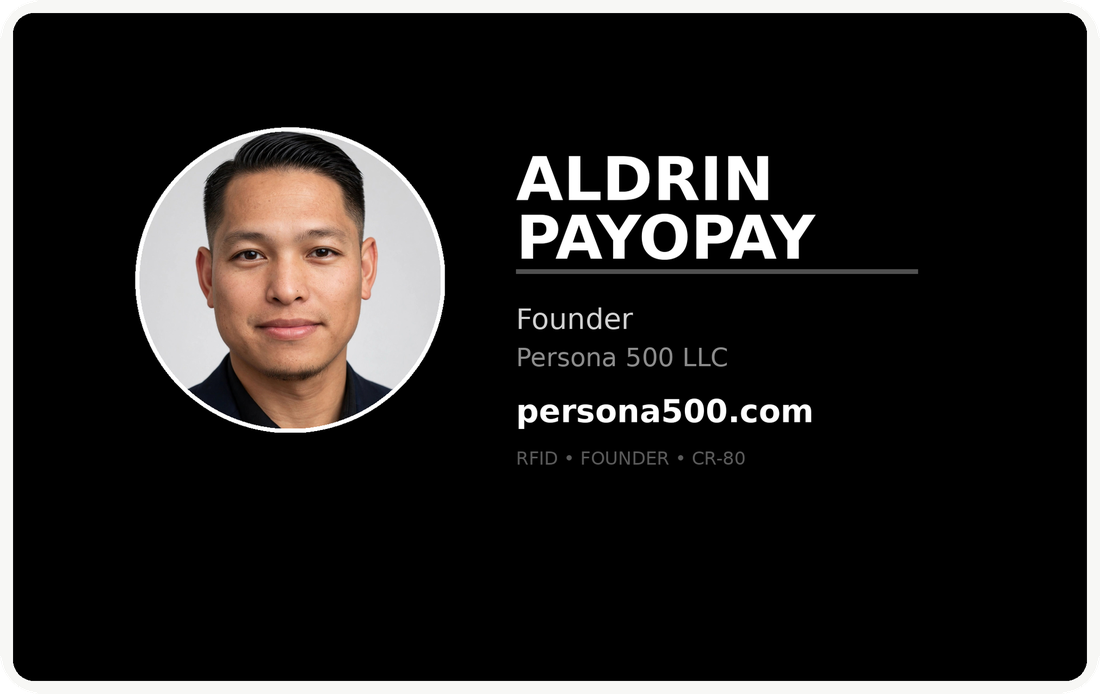
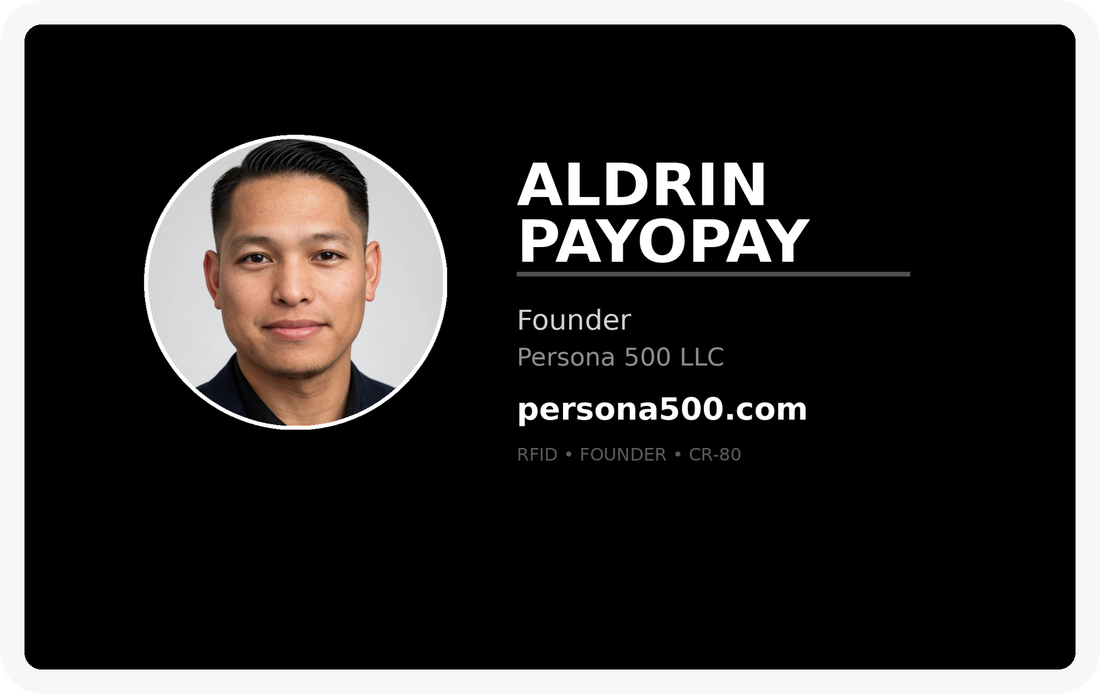
The margin follows the card's curve, like it does on a real card
It was drawn as a square frame. On a printed card the white margin is a band
around a rounded rectangle — visible on every card this project has printed — so
a right-angled inner edge is a shape the stock does not have.

Both edges are rounded now. The inner radius is derived rather than picked: inset
a rounded corner by d and the radius drops by d, so 3.18 - 1.885 = 1.295 mm.

That needed roundRectSub(), a version of roundRectPath without the beginPath.
Calling roundRectPath twice for an even-odd fill silently discards the first
rectangle, because the second call resets the path.

card_mockup.py had 1.6 mm picked by eye for the same corner; it now derives it
the same way, so the splash image and the editor agree about the same card.

diff --git a/src/web/app.js b/src/web/app.js
@@ -710,12 +710,35 @@ function drawGrid(ctx, g) {
 
 /** The white card stock the printer cannot reach. Shared by the design canvas and
  *  the tray preview so the two never disagree about where ink stops. */
+function roundRectSub(ctx, x, y, w, h, r) {
+  // Same shape as roundRectPath but WITHOUT beginPath, so two of them can share
+  // one path for an even-odd fill. roundRectPath resets the path, which silently
+  // discards the first rectangle.
+  const rr = Math.max(0, Math.min(r, Math.min(w, h) / 2));
+  ctx.moveTo(x + rr, y);
+  ctx.lineTo(x + w - rr, y);
+  ctx.arcTo(x + w, y, x + w, y + rr, rr);
+  ctx.lineTo(x + w, y + h - rr);
+  ctx.arcTo(x + w, y + h, x + w - rr, y + h, rr);
+  ctx.lineTo(x + rr, y + h);
+  ctx.arcTo(x, y + h, x, y + h - rr, rr);
+  ctx.lineTo(x, y + rr);
+  ctx.arcTo(x, y, x + rr, y, rr);
+  ctx.closePath();
+}
+
 function drawBezel(ctx, w, h, pxmm) {
   const X = (mm) => mm2px(mm, pxmm);
+  // Both edges follow the card's curve. The margin on a real card is a band that
+  // runs around a rounded rectangle, not a square frame — inset a rounded corner
+  // by d and the radius drops by d, which is why the inner radius is derived
+  // rather than picked.
+  const rOuter = X(CORNER_R);
+  const rInner = X(Math.max(0.4, CORNER_R - BEZEL_X));
   ctx.save();
   ctx.beginPath();
-  ctx.rect(0, 0, w, h);
-  ctx.rect(X(BEZEL_X), X(BEZEL_Y), w - X(BEZEL_X * 2), h - X(BEZEL_Y * 2));
+  roundRectSub(ctx, 0, 0, w, h, rOuter);
+  roundRectSub(ctx, X(BEZEL_X), X(BEZEL_Y), w - X(BEZEL_X * 2), h - X(BEZEL_Y * 2), rInner);
   ctx.fillStyle = 'rgba(247,247,245,.88)';
   ctx.fill('evenodd');
   ctx.restore();
@@ -740,7 +763,9 @@ function drawSafe(ctx, g) {
   // margin", which is always true and therefore not worth a colour.
   ctx.strokeStyle = clipped ? 'rgba(224,103,76,.9)' : 'rgba(120,120,128,.55)';
   ctx.lineWidth = 1;
-  ctx.strokeRect(X(BEZEL_X), X(BEZEL_Y), g.w - X(BEZEL_X * 2), g.h - X(BEZEL_Y * 2));
+  roundRectPath(ctx, X(BEZEL_X), X(BEZEL_Y), g.w - X(BEZEL_X * 2), g.h - X(BEZEL_Y * 2),
+                X(Math.max(0.4, CORNER_R - BEZEL_X)));
+  ctx.stroke();
 
   // The text keep-out, further in.
   ctx.strokeStyle = 'rgba(224,166,60,.55)';

diff --git a/tools/card_mockup.py b/tools/card_mockup.py
@@ -67,7 +67,10 @@ def main(argv=None) -> int:
     ap.add_argument("--width", type=int, default=1100)
     ap.add_argument("--bezel", type=float, default=1.0, help="unprintable margin, mm")
     ap.add_argument("--corner", type=float, default=3.18, help="card corner radius, mm")
-    ap.add_argument("--art-corner", type=float, default=1.6, help="printed-area corner radius, mm")
+    # Derived, not picked: inset a rounded corner by d and its radius drops by d.
+    # 3.18 - 1.885 = 1.295, which is what the editor draws.
+    ap.add_argument("--art-corner", type=float, default=1.295,
+                    help="printed-area corner radius, mm (default = corner - bezel)")
     a = ap.parse_args(argv)
 
     if not a.art.exists():
